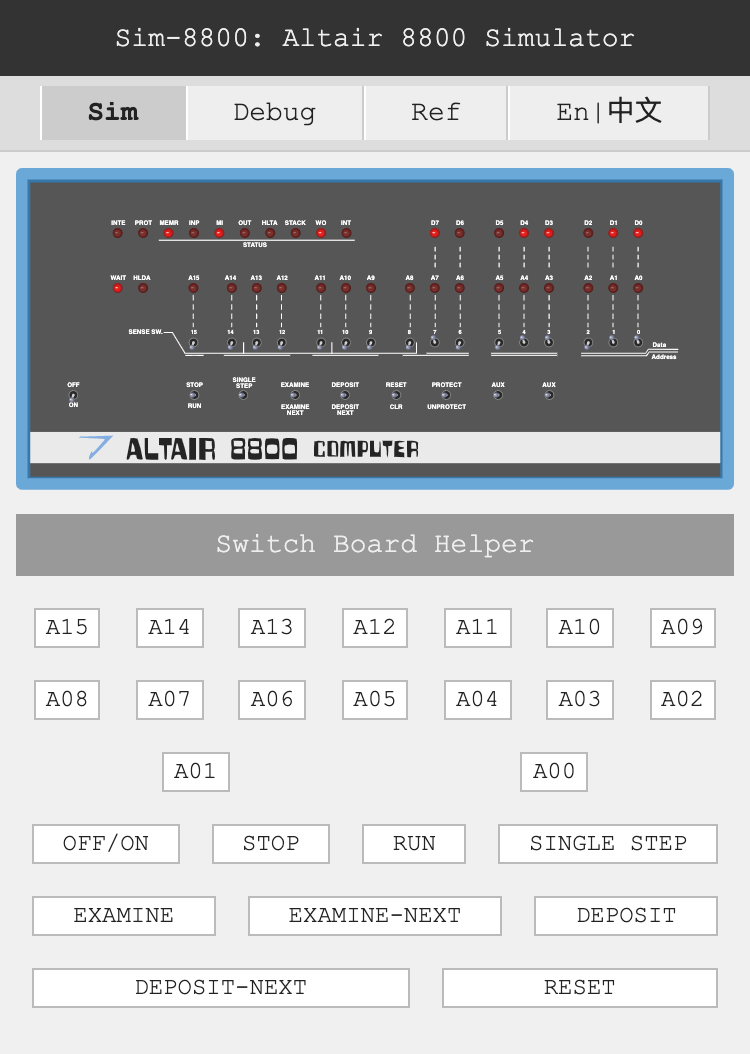
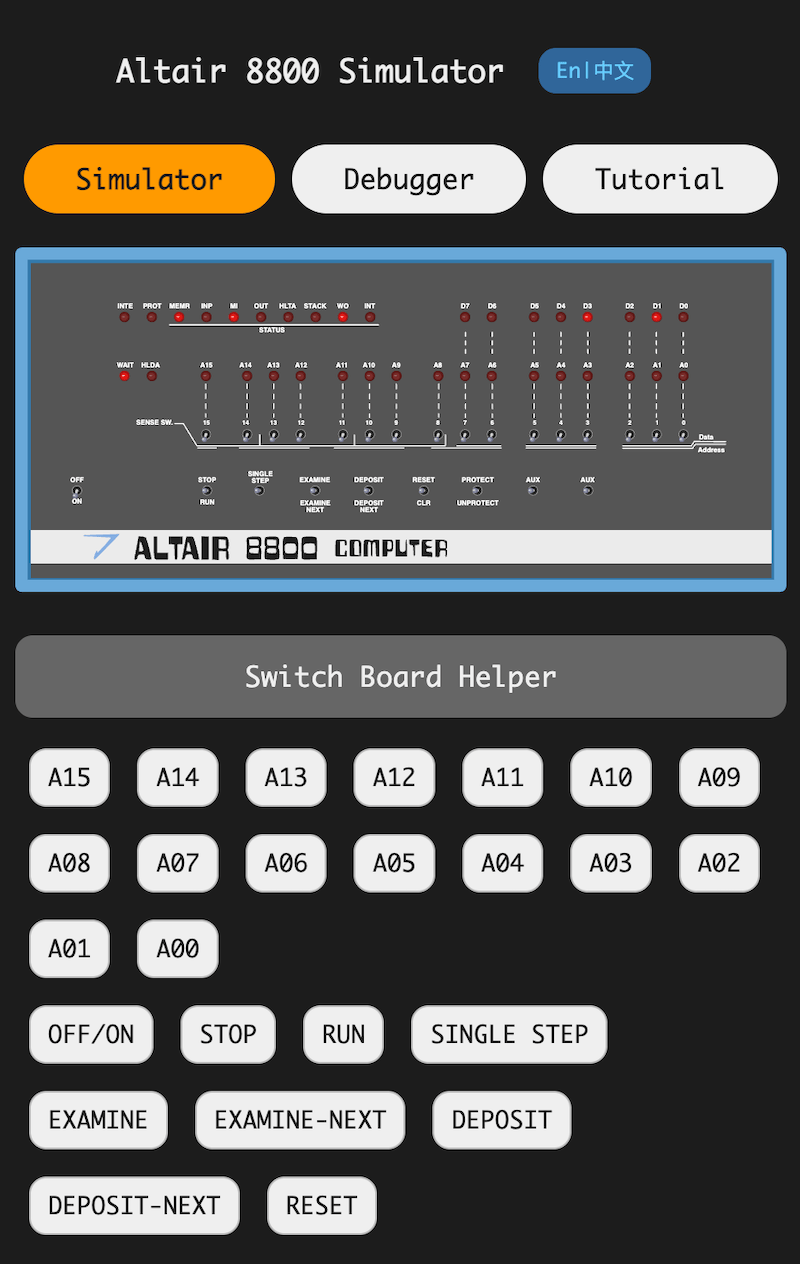
Update README and screenshot images

diff --git a/README.md b/README.md
@@ -8,15 +8,15 @@ Simply open index.html in browser, or copy the entire dir to your web server's r
 
 The simulator UI supports English and Chinese for now. In a desktop browser, you may use mouse to toggle or click the switches on the panel directly.
 
-<img src="https://raw.githubusercontent.com/wixette/8800-simulator/master/design/sim-panel.png" width="960">
+![8800 Panel](./screenshots/sim-panel.png)
 
-There is a DEBUG tab where you can check the internal status of the simulated 8080 CPU, or the contents of the simulator's memory.
+There is a Debugger tab where you can check the internal status of the simulated 8080 CPU, or the contents of the simulator's memory.
 
-<img src="https://raw.githubusercontent.com/wixette/8800-simulator/master/design/sim-debug.png" width="960">
+![8800 Debugger](./screenshots/sim-debug.png)
 
 The simulator works fine with modern mobile browsers, except that it is a bit challenging to touch a single switch on the panel on a mobile screen. Although, the helper switch buttons below the panel can be used as an alternative solution.
 
-<img src="https://raw.githubusercontent.com/wixette/8800-simulator/master/design/sim-mobile.png" width="480">
+![8800 Mobile](./screenshots/sim-mobile.png)
 
 ## A Quick Tutorial
 
@@ -61,13 +61,13 @@ With a running Altair 8800 simulator, how to input and run the following program
 
 ## References
 
- * [Wikipedia: Altair 8800](https://en.wikipedia.org/wiki/Altair_8800)
- * [Wikipedia: Intel 8080 CPU](https://en.wikipedia.org/wiki/Intel_8080)
- * [Intel 8080 instruction set](http://www.classiccmp.org/dunfield/r/8080.txt)
- * [Original Altair 8800 manuals](https://altairclone.com/altair_manuals.html)
- * [Altair 8800 Operator's Manual](https://altairclone.com/downloads/manuals/Altair%208800%20Operator's%20Manual.pdf)
- * [Intel 8080 Assembly Language Programming Manual](http://www.classiccmp.org/dunfield/r/8080asm.pdf)
- * [Another Altair 8800 simulator](https://s2js.com/altair/)
+- [Wikipedia: Altair 8800](https://en.wikipedia.org/wiki/Altair_8800)
+- [Wikipedia: Intel 8080 CPU](https://en.wikipedia.org/wiki/Intel_8080)
+- [Intel 8080 instruction set](http://www.classiccmp.org/dunfield/r/8080.txt)
+- [Original Altair 8800 manuals](https://altairclone.com/altair_manuals.html)
+- [Altair 8800 Operator's Manual](https://altairclone.com/downloads/manuals/Altair%208800%20Operator's%20Manual.pdf)
+- [Intel 8080 Assembly Language Programming Manual](http://www.classiccmp.org/dunfield/r/8080asm.pdf)
+- [Another Altair 8800 simulator](https://s2js.com/altair/)
 
 ## Acknowledgements
 
